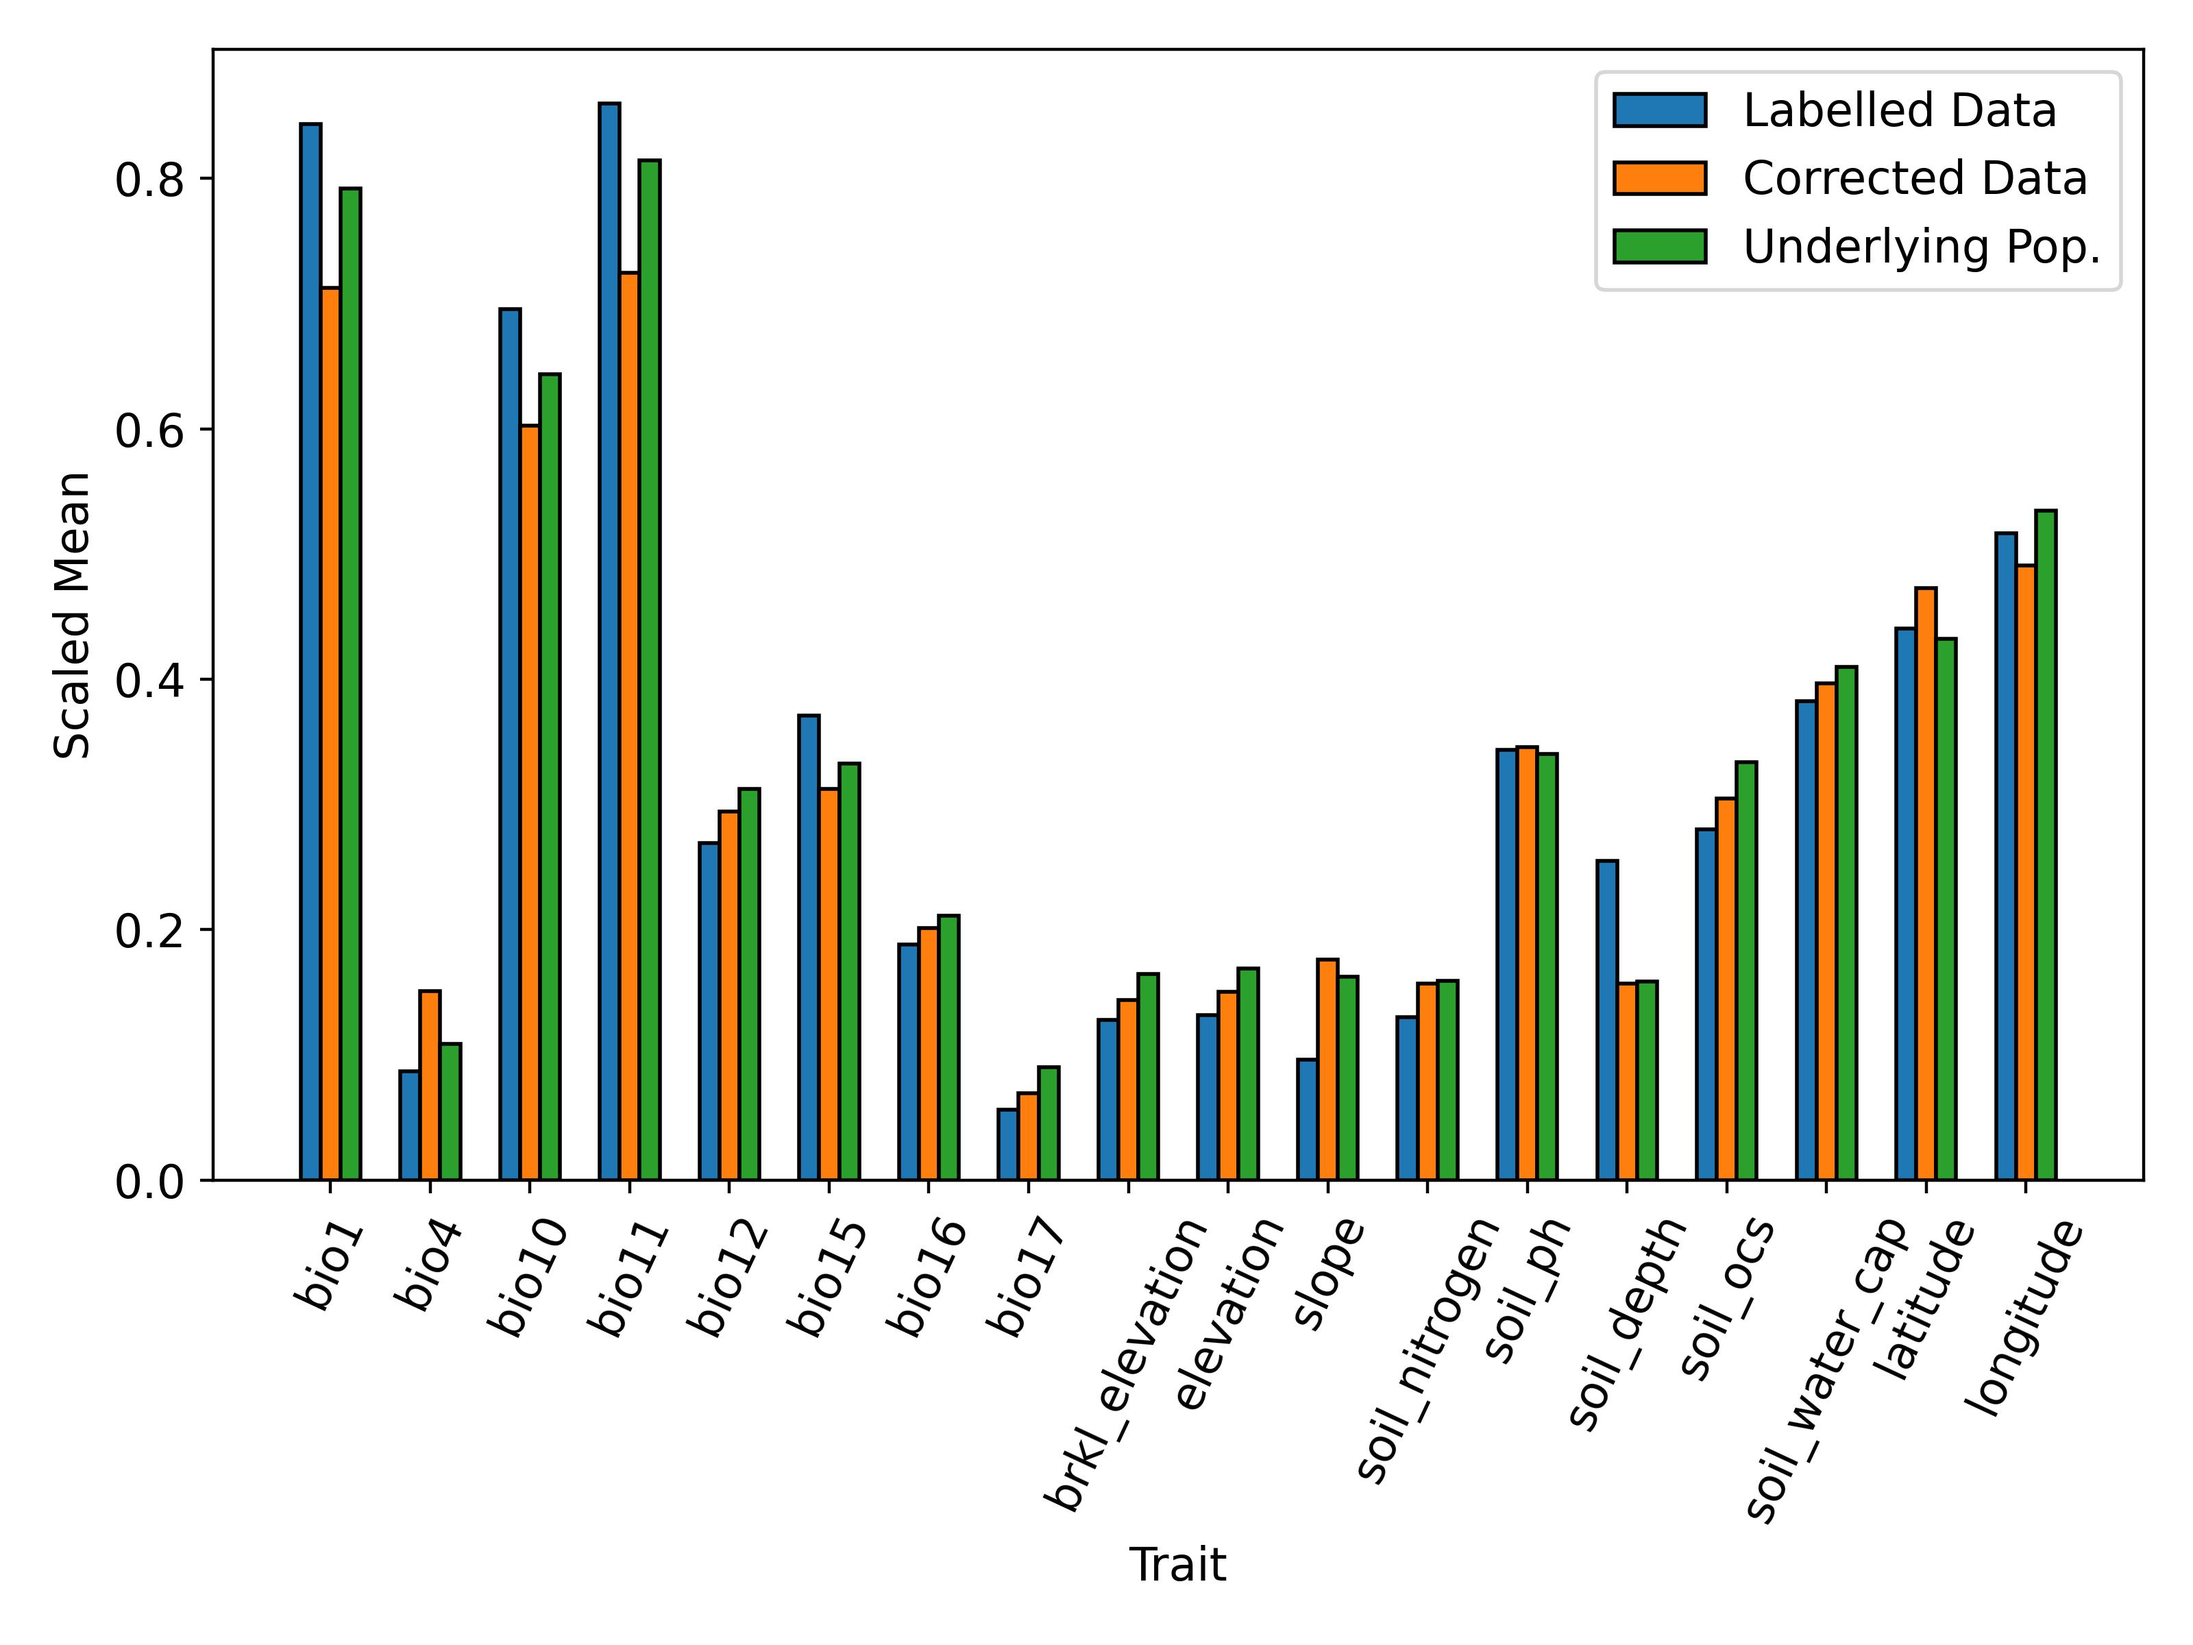
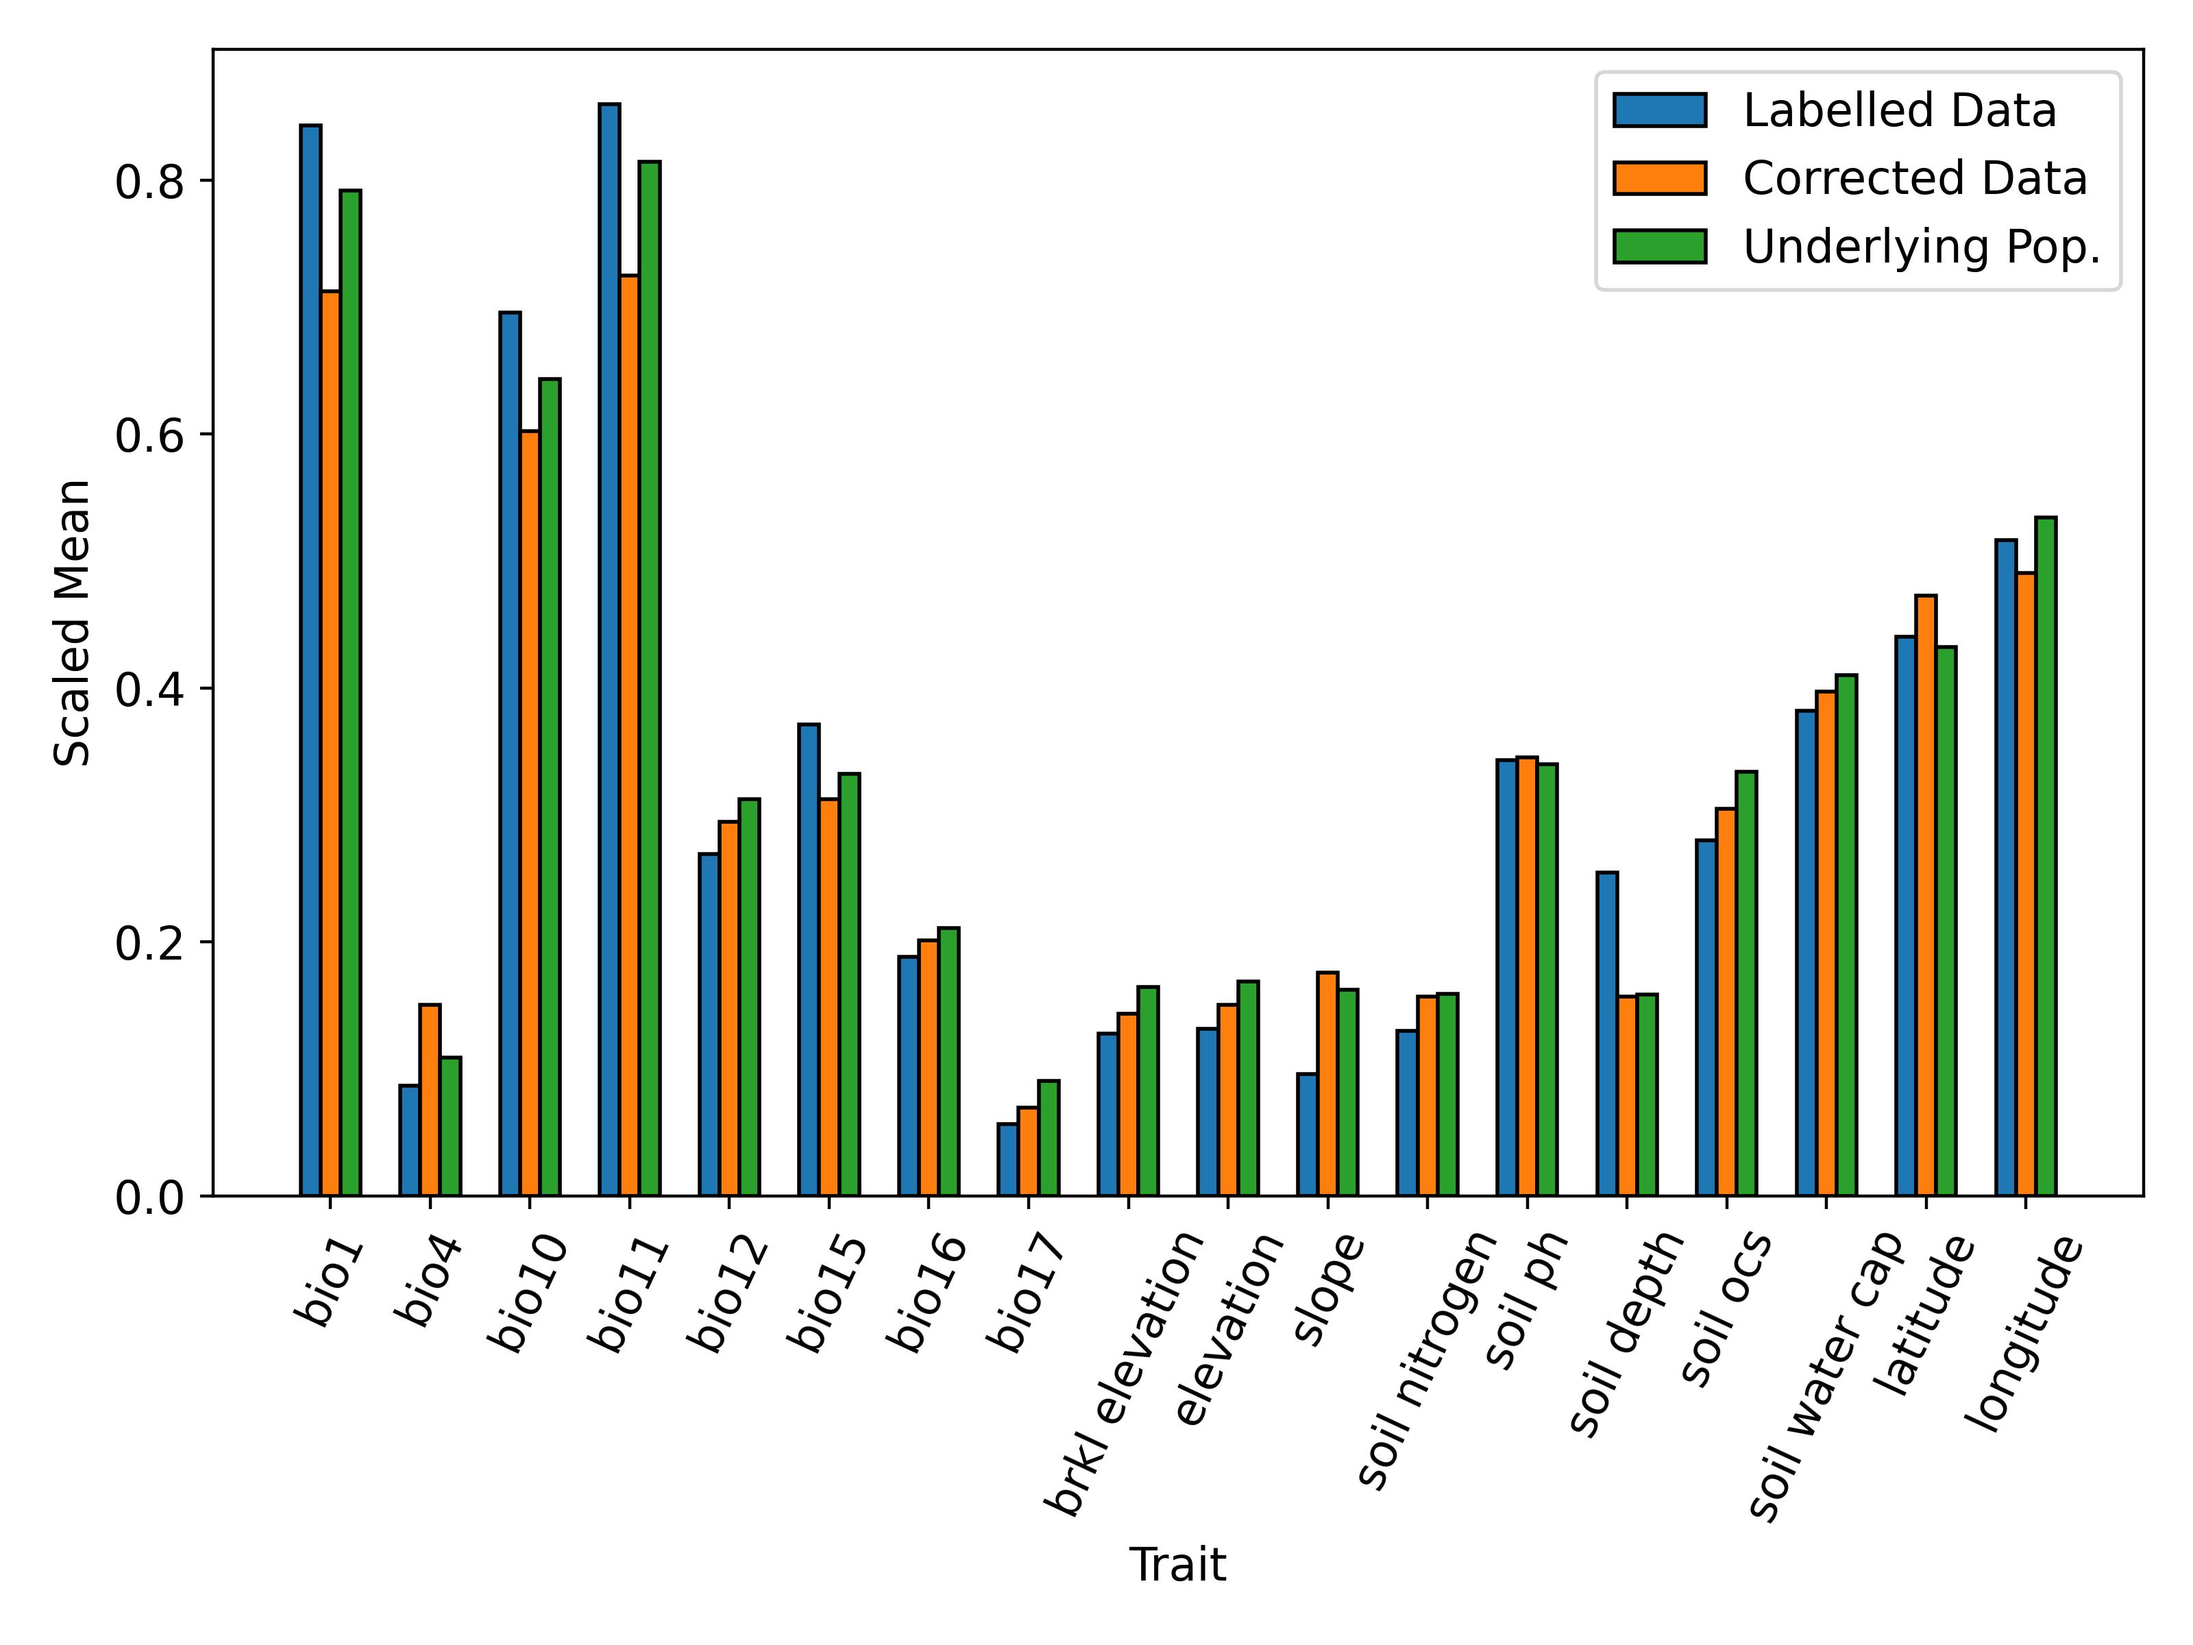
Tidy some variable names in figures

diff --git a/import_trait_data/finalise.py b/import_trait_data/finalise.py
@@ -1,6 +1,7 @@
 import os
 
 import pandas as pd
+from typing import List
 
 from import_trait_data import ACCEPTED_NAME_COLUMN, TARGET_COLUMN, COLUMNS_TO_DROP, NAME_COLUMNS, \
     TEMP_ALL_TRAITS_CSV, \
@@ -75,6 +76,11 @@ def get_genus_species_list(lab_df: pd.DataFrame, unlab_df: pd.DataFrame):
         return dict_list
 
 
+def tidy_var_names(names:List[str]):
+    ### For some outputs, clean list of given names
+    return [c.replace('_', ' ') for c in names]
+
+
 def standardise_output(df: pd.DataFrame, out_csv: str = None):
     df = remove_samples_with_no_data(df)
     replace_nans_with_zeros(df)
@@ -83,6 +89,7 @@ def standardise_output(df: pd.DataFrame, out_csv: str = None):
             [c for c in df if
              (c not in [TARGET_COLUMN] and c not in NAME_COLUMNS and c not in TRAITS_TO_DROP_AFTER_IMPORT)]
             + [TARGET_COLUMN]]
+
     if out_csv is not None:
         df.to_csv(out_csv)
 
@@ -117,20 +124,20 @@ def main():
     unlabelled_taxa = all_taxa[all_taxa[TARGET_COLUMN].isna()]
     unlabelled_taxa.to_csv(IMPORTED_UNLABELLED_TRAIT_CSV)
 
-
     labelled_taxa.describe().to_csv(os.path.join(IMPORT_OUTPUT_DIR, 'labelled trait summary.csv'))
     unlabelled_taxa.describe().to_csv(
         os.path.join(IMPORT_OUTPUT_DIR, 'unlabelled trait summary.csv'))
     all_taxa.describe().to_csv(os.path.join(IMPORT_OUTPUT_DIR, 'all trait summary.csv'))
 
-    log_all_taxa = all_taxa[all_taxa['Family']=='Loganiaceae']
+    log_all_taxa = all_taxa[all_taxa['Family'] == 'Loganiaceae']
     log_all_taxa.describe().to_csv(os.path.join(IMPORT_OUTPUT_DIR, 'loganiaceae trait summary.csv'))
 
-    log_all_taxa = all_taxa[all_taxa['Family']=='Apocynaceae']
+    log_all_taxa = all_taxa[all_taxa['Family'] == 'Apocynaceae']
     log_all_taxa.describe().to_csv(os.path.join(IMPORT_OUTPUT_DIR, 'Apocynaceae trait summary.csv'))
 
-    log_all_taxa = all_taxa[all_taxa['Family']=='Rubiaceae']
+    log_all_taxa = all_taxa[all_taxa['Family'] == 'Rubiaceae']
     log_all_taxa.describe().to_csv(os.path.join(IMPORT_OUTPUT_DIR, 'Rubiaceae trait summary.csv'))
+
 
 if __name__ == '__main__':
     main()

diff --git a/bias_correction_and_summaries/trait_relations.py b/bias_correction_and_summaries/trait_relations.py
@@ -8,7 +8,7 @@ from matplotlib import pyplot as plt
 from pkg_resources import resource_filename
 
 from bias_correction_and_summaries import vars_to_use_in_bias_analysis, ALL_TRAITS
-from import_trait_data import TARGET_COLUMN, BINARY_VARS, HABIT_COLS
+from import_trait_data import TARGET_COLUMN, BINARY_VARS, HABIT_COLS, tidy_var_names
 
 _output_path = resource_filename(__name__, 'outputs')
 
@@ -43,13 +43,15 @@ def make_cooccur_df(df: pd.DataFrame, vars: List[str]):
     var1_list = []
     var2_list = []
     values = []
+
     for p1 in vars + ['All Species']:
         for p2 in vars:
             var1_list.append(p1)
             var2_list.append(p2)
             values.append(get_cooccur_ratio_for_vars(df, p1, p2))
 
-    out_data = pd.DataFrame({'Var1': var1_list, 'Var2': var2_list, 'Values': values})
+    out_data = pd.DataFrame(
+        {'Var1': tidy_var_names(var1_list), 'Var2': tidy_var_names(var2_list), 'Values': values})
 
     return out_data
 

diff --git a/bias_correction_and_summaries/weighting_comparison.py b/bias_correction_and_summaries/weighting_comparison.py
@@ -8,7 +8,7 @@ from pkg_resources import resource_filename
 
 from bias_correction_and_summaries import ALL_TRAITS, LABELLED_TRAITS, \
     vars_to_use_in_bias_analysis, WEIGHTED_LABELLED_DATA
-from import_trait_data import CONTINUOUS_VARS, DISCRETE_VARS
+from import_trait_data import CONTINUOUS_VARS, DISCRETE_VARS, tidy_var_names
 
 _output_path = resource_filename(__name__, 'outputs')
 
@@ -62,7 +62,7 @@ def plot_corrected_means(vars_to_compare: List[str], out_filename: str, scale=Tr
             label='Corrected Data')
     plt.bar(X_axis + 1.5 * width, all_means, width=width, edgecolor='black', label='Underlying Pop.')
 
-    plt.xticks(X_axis + width / 2, labelled_traits.describe().columns.tolist(), rotation=65)
+    plt.xticks(X_axis + width / 2, tidy_var_names(labelled_traits.describe().columns.tolist()), rotation=65)
     plt.legend()
     plt.xlabel('Trait')
     plt.ylabel(ylab)
